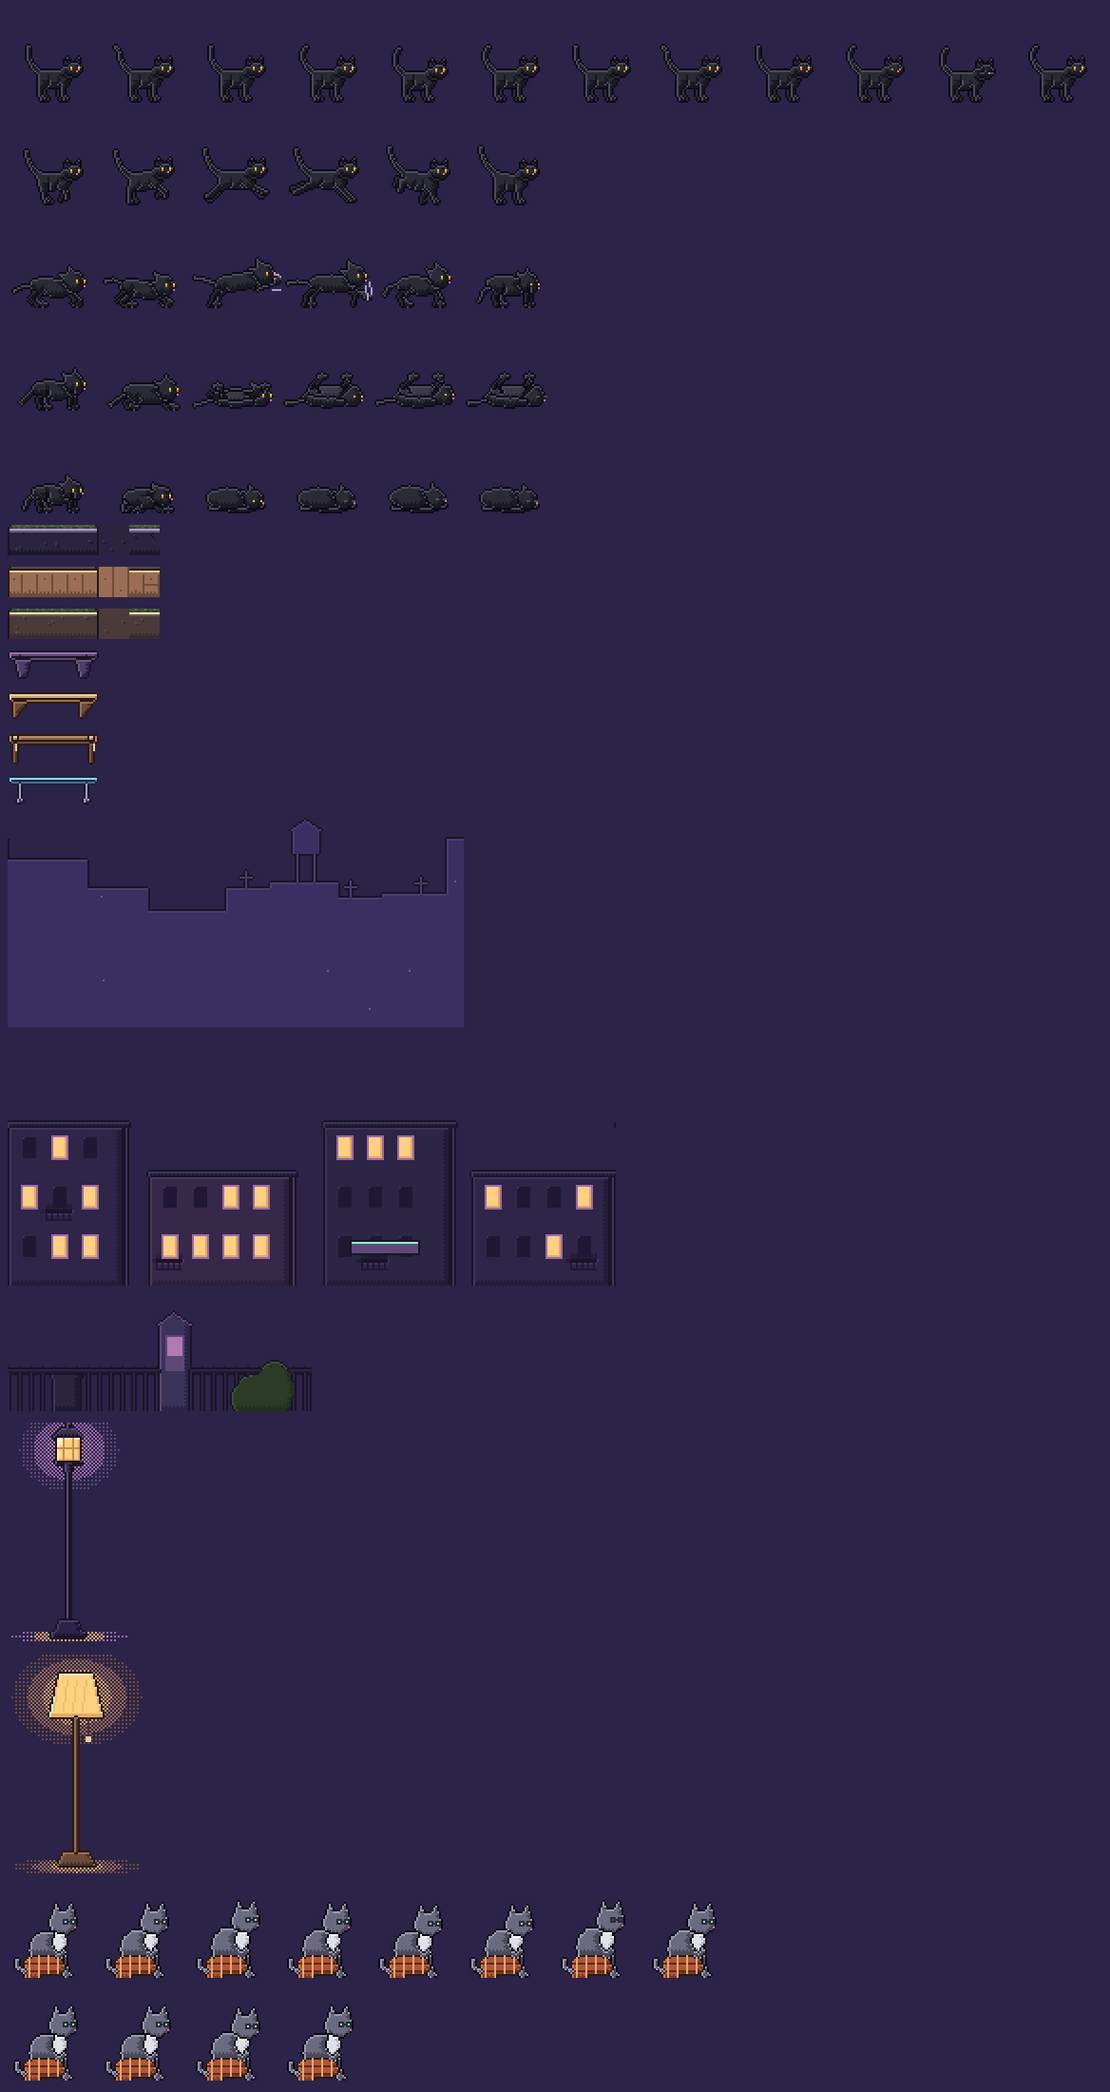
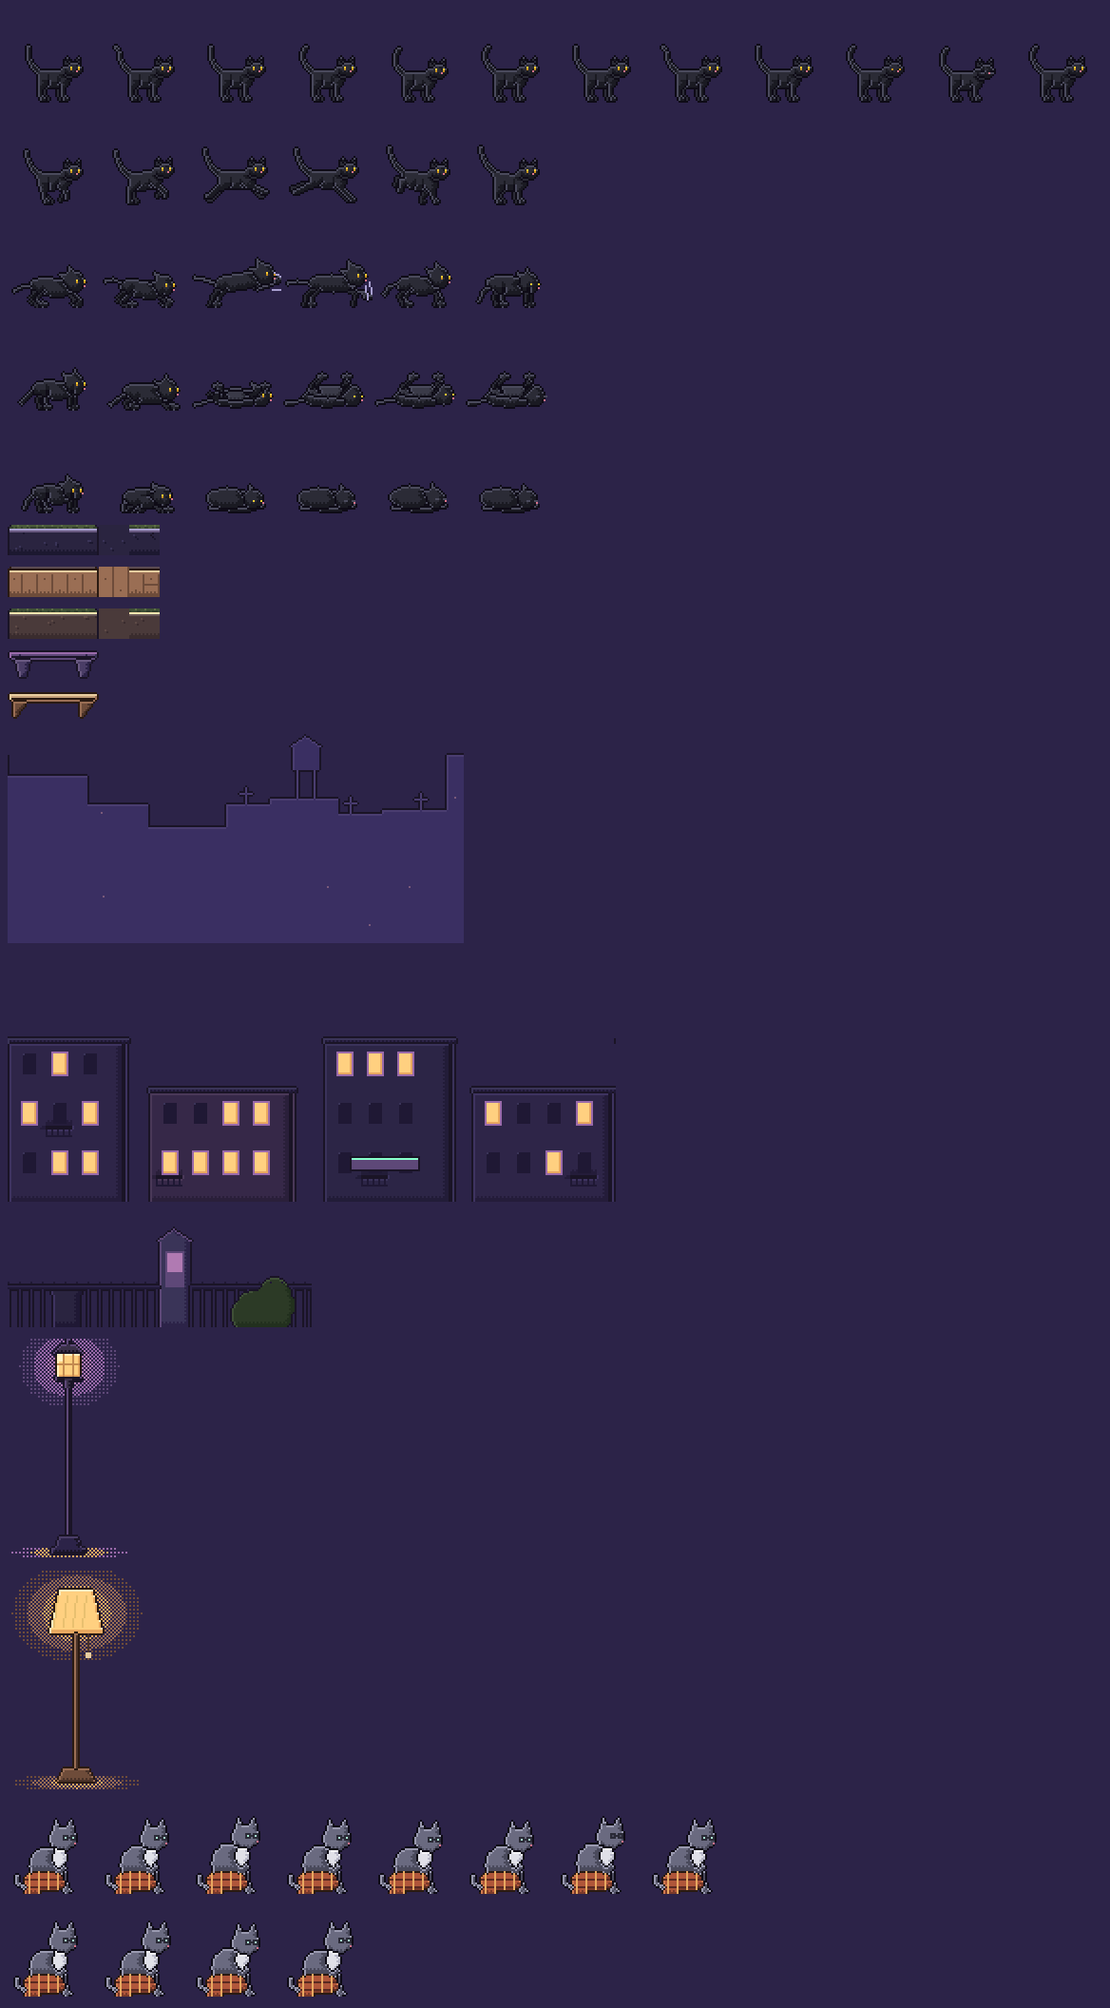
Игра: стрелка «»» из пиксельного шрифта, подписи тач-кнопок без переноса, без мёртвых карнизов в ledges.py

diff --git a/game/src/i18n/messages.ts b/game/src/i18n/messages.ts
@@ -16,7 +16,7 @@ export const M = {
   m_we_re_used_to_fighting_it: { ru: "Мы привыкли с этим бороться.", en: "We're used to fighting it." },
   m_or_running_away: { ru: "Или убегать.", en: "Or running away." },
   m_but_what_if_you_just_pass: { ru: "Но что если просто — пройти сквозь?", en: "But what if you just — pass through it?" },
-  m_begin_the_journey: { ru: "Начать путь →", en: "Begin the journey →" },
+  m_begin_the_journey: { ru: "Начать путь »", en: "Begin the journey »" },
   m_a_d_move_w_jump: { ru: "A D идти · W прыжок", en: "A D move · W jump" },
   m_move_jump: { ru: "◀ ▶ идти · ▲ прыжок", en: "◀ ▶ move · ▲ jump" },
   m_z_tap_dash_dodge: { ru: "Z (тап) — рывок, увернись", en: "Z (tap) — dash, dodge" },
@@ -26,7 +26,7 @@ export const M = {
   m_any_key_next: { ru: "любая клавиша — дальше", en: "any key — next" },
   m_tap_next: { ru: "тапни — дальше", en: "tap — next" },
   m_tap: { ru: "тапни", en: "tap" },
-  m_skip: { ru: "пропустить →", en: "skip →" },
+  m_skip: { ru: "пропустить »", en: "skip »" },
   m_let_s_go_see_those_three: { ru: "пойдём — посмотрим на эти три способа", en: "let's go — see those three ways" },
   m_avoid_tap_dash: { ru: "ИЗБЕГАЙ (тап) — рывок", en: "AVOID (tap) — dash" },
   m_avoid_hold_zone_out: { ru: "ИЗБЕГАЙ (держи) — залипни", en: "AVOID (hold) — zone out" },
@@ -121,7 +121,7 @@ export const M = {
   m_wham: { ru: "ХРЯСЬ!", en: "WHAM!" },
   m_wham_silence_finally: { ru: "ХРЯСЬ! …тишина. наконец-то.", en: "WHAM! …silence. finally." },
   m_sure_bring_your_plant_over: { ru: "«конечно… давайте ваш фикус»", en: "\"sure… bring your plant over\"" },
-  m_gave_in_everyone_happy_except_mister: { ru: "уступил. все довольны — кроме Мистера. −1 жизнь.", en: "gave in. everyone happy — except Mister. −1 life." },
+  m_gave_in_everyone_happy_except_mister: { ru: "уступил. все довольны — кроме Мистера. -1 жизнь.", en: "gave in. everyone happy — except Mister. -1 life." },
   m_an_ordinary_day: { ru: "Обычный день", en: "An Ordinary Day" },
   m_home: { ru: "Дома", en: "Home" },
   m_evening_just_make_it_home: { ru: "вечер. просто дойти до дома.", en: "evening. just make it home." },
@@ -195,7 +195,7 @@ export const M = {
   m_ow_i_can_t_do_anything: { ru: "ай! да я ничего не могу — только бежать!", en: "ow! I can't do anything — just run!" },
   m_warm_good_things_exist_too_gather: { ru: "тёплое… хорошее тоже есть. собери их.", en: "warm… good things exist too. gather them." },
   m_every_warm_thought_is_with_you: { ru: "все тёплые мысли с тобой. их тоже стоит замечать.", en: "every warm thought is with you. those are worth noticing too." },
-  m_fell_1_life: { ru: "упал. −1 жизнь.", en: "fell. −1 life." },
+  m_fell_1_life: { ru: "упал. -1 жизнь.", en: "fell. -1 life." },
   m_this_can_t_go_on: { ru: "сил не осталось…", en: "no strength left…" },
   m_but_it_s_only_a_try: { ru: "но это лишь попытка. вставай.", en: "but it's only a try. get up." },
   m_key_click_try_again: { ru: "клавиша / клик — ещё раз", en: "key / click — try again" },
@@ -212,14 +212,14 @@ export const M = {
   m_x_fight_z_avoid_tap_dash: { ru: "X бей · Z избегай (тап рывок / держи залипни) · V уступи", en: "X fight · Z avoid (tap dash / hold zone out) · V surrender" },
   m_this_can_t_go_on_2: { ru: "так дальше — нельзя.", en: "this can't go on." },
   m_and_for_the_first_time_mister: { ru: "справиться можно. просто в одиночку —\nдолго и трудно. с терапевтом — быстрее и легче.", en: "you can get through this. alone it's just\nslow and hard. with a therapist — faster, easier." },
-  m_or_keep_going_with_mister: { ru: "смотреть путь Мистера дальше →", en: "keep watching Mister's path →" },
-  m_try_in_app: { ru: "попробовать в приложении →", en: "try it in the app →" },
+  m_or_keep_going_with_mister: { ru: "смотреть путь Мистера дальше »", en: "keep watching Mister's path »" },
+  m_try_in_app: { ru: "попробовать в приложении »", en: "try it in the app »" },
   m_book_therapist: { ru: "или записаться к терапевту", en: "or book a therapist" },
   m_support_game: { ru: "поддержать игру 💛", en: "support the game 💛" },
   m_you_ran_through_your_own_mind: { ru: "🐈⬛  путь сквозь свою голову — позади.", en: "🐈⬛  you ran through your own mind." },
   m_your_biggest_enemy: { ru: "твой главный враг —", en: "your biggest enemy —" },
   m_you_can_t_beat_it_alone: { ru: "справиться можно. просто трудно и долго.\nс терапевтом — быстрее. дальше — терапия.", en: "you can get through this — it's just slow and hard.\nwith a therapist, faster. next — therapy." },
-  m_share: { ru: "поделиться →", en: "share →" },
+  m_share: { ru: "поделиться »", en: "share »" },
   m_or_back_to_menu: { ru: "или — в меню", en: "or — back to menu" },
   m_home_finally_a_breath_right: { ru: "дома. наконец выдохнуть… да?", en: "home. finally a breath… right?" },
   m_why_is_home_the_hardest_of: { ru: "почему дома — тяжелее всего?", en: "why is home the hardest of all?" },

diff --git a/game/src/scenes/StartScene.ts b/game/src/scenes/StartScene.ts
@@ -52,7 +52,7 @@ export class StartScene extends Phaser.Scene {
     // вернулся — продолжай с достигнутой главы, не с нуля
     const cont = getContinueChapter();
     if (cont && CHAPTERS[cont]) {
-      const cbtn = this.add.text(W / 2, btnY + 48, t('m_continue') + ` — «${t(CHAPTERS[cont].title)}» →`, {
+      const cbtn = this.add.text(W / 2, btnY + 48, t('m_continue') + ` — «${t(CHAPTERS[cont].title)}» »`, {
         fontFamily: '"Press Start 2P", "Courier New", monospace', fontSize: '11px', color: '#88ffcc', letterSpacing: 0, ...HUD_STROKE,
       }).setOrigin(0.5).setInteractive({ useHandCursor: true });
       cbtn.on('pointerover', () => cbtn.setColor('#fff0d8'));

diff --git a/game/index.html b/game/index.html
@@ -60,8 +60,11 @@
     .tbtn.act {
       width: 78px; height: 58px; border-radius: 12px;
       font-size: 10px; letter-spacing: 0; overflow: hidden;
-      line-height: 1.3; word-break: break-word; text-align: center;
+      line-height: 1.3; text-align: center;
     }
+    /* Знак шрифта = 1em, внутри рамки 76px: в 10px влезает 7 знаков (ИЗБЕГАЙ — 70px),
+       длиннее — класс long из controls.ts, 8px (SURRENDER — 72px); слово не рвётся. */
+    .tbtn.act.long { font-size: 8px; }
     .tbtn {
       width: 58px; height: 58px;
       background: rgba(106,90,255,0.15);

diff --git a/game/src/controls.ts b/game/src/controls.ts
@@ -46,8 +46,8 @@ export function setTouchControls(visible: boolean) {
 // инициализации (язык переключается через reload, так что пересборки не нужно).
 function localizeTouchUI() {
   const set = (id: string, key: MsgKey) => {
-    const el = document.getElementById(id);
-    if (el) el.textContent = t(key);
+    const el = document.getElementById(id), label = t(key);
+    if (el) { el.textContent = label; el.classList.toggle('long', label.length > 7); } // кегль — .tbtn.act.long в index.html
   };
   set('tbtn-fawn', 'm_surrender');
   set('tbtn-avoid', 'm_avoid');

diff --git a/game/art/ledges.py b/game/art/ledges.py
@@ -3,13 +3,13 @@
 
 Середина — одинаковые столбцы (без дизеринга и деталей): NineSlice её
 растягивает, и одинаковые столбцы растягиваются без «мазни». Всё, что
-отвечает на вопрос «на чём держится» (кронштейны, верёвки), — на торцах.
+отвечает на вопрос «на чём держится» (консоли, кронштейны), — на торцах.
 Верх (строка 1) — поверхность, по которой ходит кот.
 """
 from px import Canvas, Mat, OUT_COOL, OUT_WARM
 
 W, H = 48, 16
-SLAB, LIP, BRACKET, EXTRA = 1, 2, 3, 4
+SLAB, LIP, BRACKET = 1, 2, 3
 
 def _flat(c, top, lip):
     c.rect((1, 1, W - 2, top), SLAB)
@@ -37,30 +37,6 @@ def room():
             BRACKET: Mat('#4a3228', '#6e4c3a', '#9a6e54', OUT_WARM, z=-2)}
     return c.render(mats)
 
-def stage():
-    c = Canvas(W, H)
-    _flat(c, 3, 1)
-    for x0 in (2, W - 6):                        # стойки лесов, верёвочная обвязка
-        c.rect((x0 + 1, 5, x0 + 2, 14), BRACKET)
-        c.rect((x0, 1, x0 + 3, 3), EXTRA)
-    for x in (3, W - 4):                         # свисающий конец верёвки
-        c.iline([(x + 1, 5), (x + 1, 8)], '#e8cda0')
-    mats = {SLAB: Mat('#6e4c3a', '#8a6248', '#b48a66', OUT_WARM, dither=False),
-            LIP: Mat('#4a3228', '#5a3e30', '#6e4c3a', OUT_WARM, z=-1, dither=False),
-            BRACKET: Mat('#4a3228', '#5a3e30', '#7e5a44', OUT_WARM, z=-2),
-            EXTRA: Mat('#9a7a5a', '#c4a07a', '#e8cda0', OUT_WARM, z=1)}
-    return c.render(mats)
-
-def glass():
-    c = Canvas(W, H)
-    _flat(c, 2, 1)
-    for x0 in (5, W - 8):                        # тонкие металлические держатели
-        c.rect((x0 + 1, 4, x0 + 1, 12), BRACKET)
-        c.rect((x0, 12, x0 + 2, 13), BRACKET)
-    mats = {SLAB: Mat('#4a6a8a', '#6a9ab8', '#8ad8ff', '#1a2440', dither=False),
-            LIP: Mat('#2a3a58', '#3a5272', '#4a6a8a', '#1a2440', z=-1, dither=False),
-            BRACKET: Mat('#3a3458', '#6a6a80', '#a89fd0', OUT_COOL, z=-2)}
-    return c.render(mats)
-
 def build():
-    return {f'ledge_{k}': f() for k, f in (('street', street), ('room', room), ('stage', stage), ('glass', glass))}
+    # только карнизы из LEDGE в game/src/props.ts — build.py --install кладёт в ассеты всё, что здесь
+    return {f'ledge_{k}': f() for k, f in (('street', street), ('room', room))}

diff --git a/docs/BACKLOG.md b/docs/BACKLOG.md
@@ -42,8 +42,7 @@
 - ⬜ **DM из `alarm` не уходит: в репозитории нет секретов `BOT_TOKEN`/`ADMIN_ID`** — шаг DM в джобе `alarm` (`.github/workflows/prod-smoke.yml`, `nightly.yml`) краснеет на каждом `created`/`reminder`; `gh api repos/gregoryKot/schema-telegram-botnest/actions/secrets` → `total_count: 0` (2026-11-13). Секреты заводит владелец, действие — в `docs/open/owner.md`.
 - ⬜ **Владельцу: внести `webapp-tz` в живой ruleset `main`** — Require status checks (GitHub Actions); джоба есть в копии `.github/rulesets/main.json` с #1079, без неё `live-ruleset` в nightly красный каждую ночь и держит открытым ci-alarm #1057 (там же — проверить зелёный nightly и закрыть #1057). Запись — `docs/open/owner.md`.
 - ⬜ **Игра: нет своего раннера тестов** — `game/package.json` без vitest: раскладка `game/src/hudLayout.ts` (зажим пузыря, перевод координат кнопки меню) проверена только скриншотами Playwright (#1159); завести vitest и вынести арифметику в чистые функции.
-- ⬜ **Игра: в пиксельном шрифте нет «→»** — `game/public/fonts/ps2p-latin.woff2` (cmap без U+2192, проверено fontTools): «пропустить →» и ещё 4 строки `game/src/i18n/messages.ts` рисуют стрелку запасным шрифтом, на скриншоте — «_»; заменить знак или добавить глиф.
-- ⬜ **Игра: на телефоне «УСТУПИ»/«SURRENDER» на тач-кнопке переносится по слогам** — `game/index.html` (`.tbtn.act`): в EN «SURREND/ER» на iPhone 13 landscape (скриншот при проверке #1159).
+- ⬜ **Игра: ♥ ✦ ◀ ▶ ▲ ₽ рисуются запасным, не пиксельным шрифтом** — в `game/public/fonts/ps2p-latin.woff2` и `ps2p-cyrillic.woff2` их нет (cmap, fontTools): ♥ — жизни в HUD (`game/src/scenes/GameScene.ts:176`, `TutorialScene.ts:187`) и обучение (`m_when_it_hits_mister_copes_in`), ✦ — счётчик воспоминаний (`game/src/scenes/game/hud.ts:26`, `world.ts:60`), ◀ ▶ ▲ — подсказка `m_move_jump` (те же значки на тач-кнопках), ₽ — `game/src/enemies/road.ts:98`; эмодзи 💛 и 🐈⬛ в `game/src/i18n/messages.ts` — тоже. Знак из шрифта меняет смысл — нужен значок-спрайт или решение оставить.
 - ⬜ **Первый замер видимости в нейросетях** — пройти 15 вопросов из
   [GEO.md](GEO.md) в Алисе AI, ChatGPT, Perplexity и Gemini, записать в журнал
   там же; включить отчёты «Видимость сайта в Алисе AI» (Яндекс Вебмастер) и
@@ -61,7 +60,6 @@
 - ⬜ **Текстовые баги партий «Ещё», моста и настроек (#1073)** — дата в билете двух форматов, «Специалист» /
   «Стать специалистом» и другие — списком в разделах `### b24-more-bridge` и `### b25-settings`
   `docs/design/APP_2026-11.md`, ждут решения по словам.
-- ⬜ **Игра: карнизы `ledge_stage`/`ledge_glass` не в игре** — `game/art/ledges.py` рисует их, но глав с такими темами нет; `build.py --install` их не ставит (в #1160 удалены из `game/src/assets/` как неиспользуемые).
 - ⬜ **Игра: ссылки на бота с меткой `src_game` нет** — источник «Из игры» заведён в `SIGNUP_SOURCES` (#1160), но кнопки игры ведут на сайт (`/?from=game`) и на запись (`game/src/therapyCta.ts`), а не в `t.me/<бот>?start=src_game`; без такой ссылки строка в /stats пустая.
 - ⬜ **Игра: в запасном финале нет кризисной строки** — `showCta` (`game/src/scenes/game/cta.ts`) не зовёт `addCrisisLine`, хотя развилка и кабинет зовут (№7); экран доводит до «сил не осталось».
 - ⬜ **Игра: на развилке Акта I тач-кнопки остаются поверх нижних строк** — `showBranch` (`game/src/scenes/game/cta.ts`) не зовёт `setTouchControls(false)`: на телефоне 800×360 кнопки ИЗБЕГАЙ/БЕЙ стоят на высоте «поддержать игру» и кризисной строки (тот же перекрой снят в `showCta` в #1160, скриншот).
